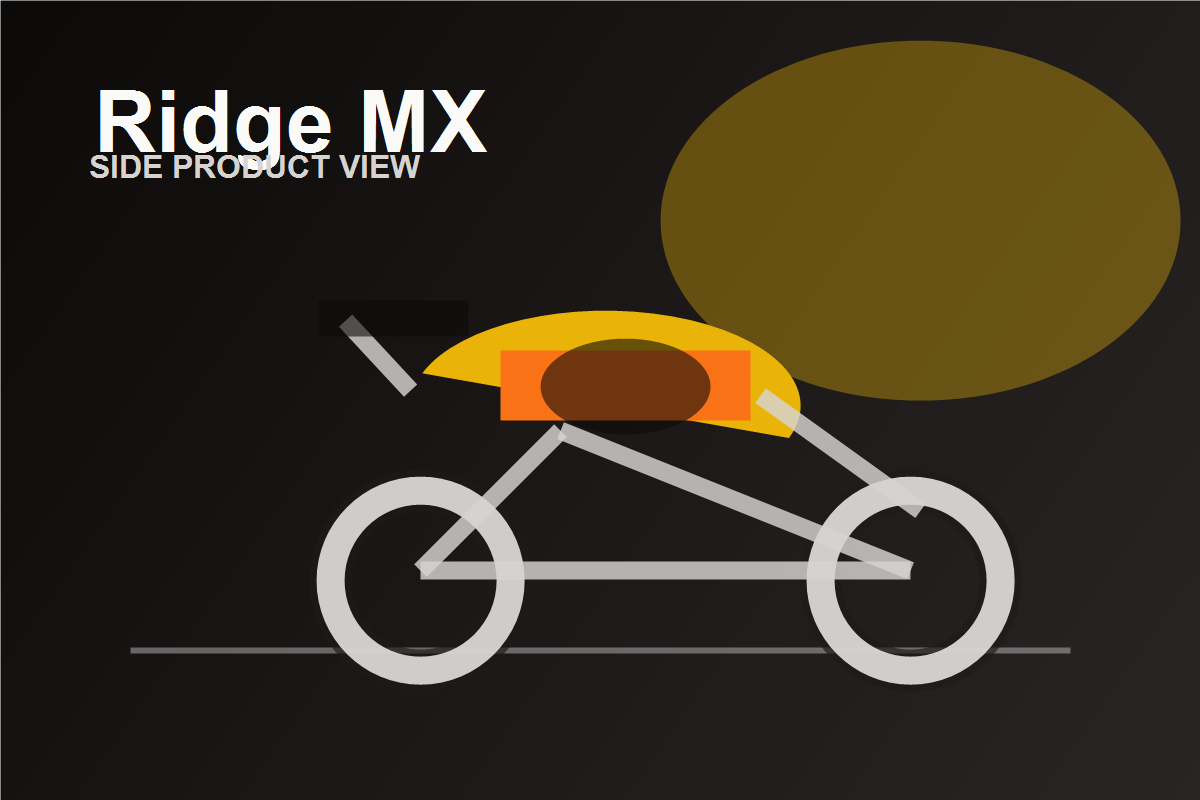
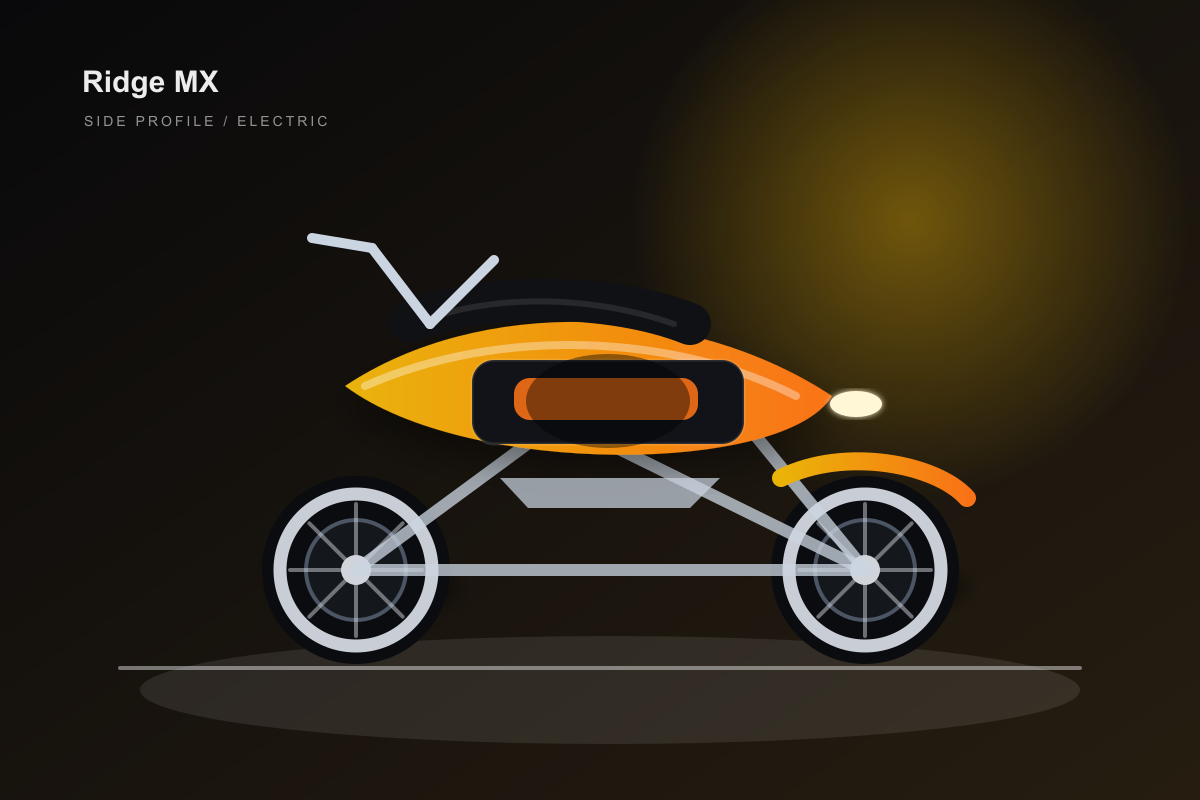
Upgrade catalog copy and bike imagery

diff --git a/lib/bikes.ts b/lib/bikes.ts
@@ -10,7 +10,7 @@ export const bikes: Bike[] = [
     chargeTime: "28 min",
     price: "$18,900",
     description:
-      "A sharp, city-to-canyon machine with instant torque, adaptive ride modes, and a compact fast-charge battery pack.",
+      "A compact streetfighter tuned for quick launches, canyon exits, and weekday commutes. Volt RS pairs a low-mounted battery pack with sharp steering geometry and configurable ride modes.",
     accent: "from-orange-500 via-amber-500 to-stone-800",
     media: {
       images: [
@@ -28,7 +28,7 @@ export const bikes: Bike[] = [
     chargeTime: "34 min",
     price: "$21,400",
     description:
-      "Long-travel suspension, upright ergonomics, and rugged utility for riders who split time between pavement and dirt roads.",
+      "A long-range dual-sport built for riders who split their week between pavement, gravel, and fire-road miles. Terra X adds upright ergonomics, protected bodywork, and utility mounting points.",
     accent: "from-emerald-500 via-lime-500 to-stone-800",
     media: {
       images: [
@@ -46,7 +46,7 @@ export const bikes: Bike[] = [
     chargeTime: "24 min",
     price: "$14,800",
     description:
-      "Lightweight, quiet, and nimble with integrated storage options and confidence-focused power delivery for daily rides.",
+      "A lightweight commuter with quiet acceleration, simple charging, and city-friendly proportions. Pulse C is built for daily riders who want predictable range without giving up weekend fun.",
     accent: "from-sky-500 via-cyan-400 to-stone-800",
     media: {
       images: [
@@ -64,7 +64,7 @@ export const bikes: Bike[] = [
     chargeTime: "38 min",
     price: "$24,600",
     description:
-      "A composed long-range tourer with wind protection, passenger-ready geometry, and effortless highway passing power.",
+      "A composed electric tourer for longer rides, passenger comfort, and fast highway passing. Vector GT brings wind protection, stable geometry, and the largest estimated pack in the lineup.",
     accent: "from-violet-500 via-fuchsia-500 to-stone-800",
     media: {
       images: [
@@ -82,7 +82,7 @@ export const bikes: Bike[] = [
     chargeTime: "22 min",
     price: "$13,900",
     description:
-      "A lightweight off-road platform tuned for quick line changes, steep climbs, and quiet access to technical terrain.",
+      "A quiet trail platform for technical terrain, steep climbs, and quick line changes. Ridge MX keeps weight low and response immediate for riders who care about control more than noise.",
     accent: "from-yellow-500 via-orange-500 to-stone-800",
     media: {
       images: [
@@ -100,7 +100,7 @@ export const bikes: Bike[] = [
     chargeTime: "26 min",
     price: "$15,700",
     description:
-      "Compact proportions, lively acceleration, and smart daily features for riders who want a fast way through dense city miles.",
+      "A compact city sport bike with lively acceleration, confident brakes, and daily-friendly ergonomics. Metro S is aimed at dense streets, short hops, and riders who want an easy electric step-up.",
     accent: "from-rose-500 via-red-500 to-stone-800",
     media: {
       images: [

diff --git a/components/hero-section.tsx b/components/hero-section.tsx
@@ -1,10 +1,11 @@
+import Image from "next/image";
 import Link from "next/link";
 import { TrackedLink } from "@/components/tracked-link";
 
 const stats = [
-  { label: "Electric range", value: "180 mi" },
-  { label: "Charge to 80%", value: "28 min" },
-  { label: "Demo fleet", value: "12 bikes" },
+  { label: "Range up to", value: "240 mi" },
+  { label: "Fast charge", value: "22-38 min" },
+  { label: "Launch models", value: "6" },
 ];
 
 export function HeroSection() {
@@ -40,23 +41,20 @@ export function HeroSection() {
           </dl>
         </div>
 
-        <div className="relative mx-auto w-full max-w-xl" aria-label="Concept image placeholder for the Kinetic Moto Volt RS electric motorcycle" role="img">
+        <div className="relative mx-auto w-full max-w-xl">
           <div className="absolute -inset-8 rounded-full bg-orange-500/20 blur-3xl" />
-          <div className="relative overflow-hidden rounded-[2rem] border border-white/10 bg-gradient-to-br from-stone-800 to-stone-950 p-6 shadow-2xl">
-            <div className="rounded-[1.5rem] bg-stone-900 p-6">
-              <div className="mb-8 flex items-center justify-between text-sm text-stone-400">
-                <span>Volt RS / prototype visual</span>
-                <span aria-hidden="true">● ● ●</span>
-              </div>
-              <div className="relative h-64 sm:h-80">
-                <div className="absolute bottom-8 left-4 h-24 w-24 rounded-full border-[14px] border-stone-600 bg-stone-950 shadow-inner" />
-                <div className="absolute bottom-8 right-4 h-24 w-24 rounded-full border-[14px] border-stone-600 bg-stone-950 shadow-inner" />
-                <div className="absolute bottom-24 left-20 right-20 h-12 -skew-x-12 rounded-full bg-orange-500 shadow-lg shadow-orange-500/40" />
-                <div className="absolute bottom-36 left-28 h-20 w-56 -skew-x-12 rounded-[2rem] bg-stone-200" />
-                <div className="absolute bottom-44 right-24 h-4 w-28 -rotate-12 rounded-full bg-stone-500" />
-                <div className="absolute bottom-48 left-24 h-3 w-28 rotate-12 rounded-full bg-stone-500" />
-                <div className="absolute bottom-32 left-40 h-24 w-24 rounded-full border border-orange-300/40" />
-              </div>
+          <div className="relative aspect-[3/2] overflow-hidden rounded-[2rem] border border-white/10 bg-stone-900 shadow-2xl shadow-black/40">
+            <Image
+              src="/bikes/volt-rs-side.png"
+              alt="Volt RS electric motorcycle studio render"
+              fill
+              priority
+              sizes="(min-width: 1024px) 45vw, 100vw"
+              className="object-cover"
+            />
+            <div className="absolute inset-x-0 bottom-0 bg-gradient-to-t from-stone-950/85 to-transparent p-5">
+              <p className="text-sm font-bold uppercase tracking-[0.22em] text-orange-200">Volt RS launch model</p>
+              <p className="mt-1 text-sm text-stone-300">Street performance / 180 mi estimated range</p>
             </div>
           </div>
         </div>

diff --git a/components/bike-card.tsx b/components/bike-card.tsx
@@ -1,3 +1,4 @@
+import Image from "next/image";
 import { TrackedLink } from "@/components/tracked-link";
 
 export type BikeMediaImage = {
@@ -37,25 +38,30 @@ type BikeCardProps = {
 };
 
 export function BikeCard({ bike, ctaLabel = `View ${bike.name}` }: BikeCardProps) {
+  const primaryImage = bike.media?.images?.[0];
+
   return (
     <article id={bike.slug} className="group flex h-full scroll-mt-24 flex-col overflow-hidden rounded-[2rem] border border-stone-800 bg-stone-900/70 shadow-xl shadow-black/20 transition hover:-translate-y-1 hover:border-orange-400/50">
-      <div className={`relative min-h-56 bg-gradient-to-br ${bike.accent} p-6`}>
-        <div className="absolute inset-0 bg-[radial-gradient(circle_at_70%_15%,_rgba(255,255,255,0.22),_transparent_28%)]" />
-        <div className="relative flex items-start justify-between gap-4">
+      <div className={`relative aspect-[3/2] overflow-hidden bg-gradient-to-br ${bike.accent}`}>
+        {primaryImage ? (
+          <Image
+            src={primaryImage.src}
+            alt={primaryImage.alt}
+            fill
+            sizes="(min-width: 768px) 33vw, 100vw"
+            className="object-cover transition duration-500 group-hover:scale-105"
+          />
+        ) : (
+          <div className="absolute inset-0 bg-[radial-gradient(circle_at_70%_15%,_rgba(255,255,255,0.22),_transparent_28%)]" />
+        )}
+        <div className="absolute inset-0 bg-gradient-to-t from-stone-950/50 via-transparent to-stone-950/20" />
+        <div className="relative flex items-start justify-between gap-4 p-5">
           <span className="rounded-full bg-black/30 px-3 py-1 text-xs font-bold uppercase tracking-[0.22em] text-white backdrop-blur">
             {bike.category}
           </span>
           <span className="rounded-full bg-white/15 px-3 py-1 text-xs font-semibold text-white backdrop-blur">
             /{bike.slug}
           </span>
-        </div>
-        <div className="absolute bottom-8 left-6 right-6" aria-label={`${bike.name} image placeholder`} role="img">
-          <div className="relative h-28">
-            <div className="absolute bottom-0 left-2 h-16 w-16 rounded-full border-[10px] border-white/75 bg-black/35" />
-            <div className="absolute bottom-0 right-2 h-16 w-16 rounded-full border-[10px] border-white/75 bg-black/35" />
-            <div className="absolute bottom-12 left-16 right-16 h-8 -skew-x-12 rounded-full bg-white/90" />
-            <div className="absolute bottom-17 left-24 h-12 w-28 -skew-x-12 rounded-3xl bg-black/35" />
-          </div>
         </div>
       </div>
 

diff --git a/components/bike-detail-layout.tsx b/components/bike-detail-layout.tsx
@@ -62,7 +62,7 @@ export function BikeDetailLayout({ bike }: BikeDetailLayoutProps) {
             <p className="text-sm font-bold uppercase tracking-[0.28em] text-orange-300">Starting price</p>
             <p className="mt-3 text-5xl font-black tracking-tight text-white">{bike.price}</p>
             <p className="mt-4 leading-7 text-orange-100">
-              Estimated launch pricing for the {bike.name}. Final availability, trim packages, and delivery options can be confirmed with Kinetic Moto.
+              Estimated launch pricing for the {bike.name}. Ask Kinetic Moto about trim options, delivery timing, and financing fit.
             </p>
             <TrackedLink href={bookRideHref} eventName="bike_detail_cta_click" eventProperties={{ bike: bike.slug, intent: "contact_sales" }} className="mt-6 inline-flex rounded-full bg-orange-500 px-5 py-3 font-bold text-stone-950 transition hover:bg-orange-400 focus:outline-none focus:ring-2 focus:ring-orange-200 focus:ring-offset-2 focus:ring-offset-stone-950">
               Contact Sales
@@ -88,7 +88,7 @@ export function BikeDetailLayout({ bike }: BikeDetailLayoutProps) {
               Plan the ride before the reservation.
             </h2>
             <p className="mt-5 text-lg leading-8 text-stone-600">
-              Talk through estimated payments, delivery timing, and fleet needs before making a commitment. No checkout or cart flow has been added.
+              Talk through estimated payments, trade-in fit, delivery timing, and fleet needs before making a commitment.
             </p>
           </div>
 

diff --git a/components/cta-section.tsx b/components/cta-section.tsx
@@ -26,7 +26,7 @@ export function CtaSection() {
               Feel the pull before you commit.
             </h2>
             <p className="mt-5 text-lg leading-8 text-stone-600">
-              Kinetic Moto is currently using placeholder content for launch planning. These CTAs are wired as accessible links and can be swapped for booking flows later.
+              Start with a model, a route, or a fleet use case. The team can confirm availability, financing fit, and delivery timing before you commit.
             </p>
           </div>
 

diff --git a/components/featured-bikes.tsx b/components/featured-bikes.tsx
@@ -16,7 +16,7 @@ export async function FeaturedBikes() {
             </h2>
           </div>
           <p className="max-w-xl text-lg leading-8 text-stone-300">
-            Placeholder specs and slugs are ready for routing, inventory, and production imagery when the catalog is finalized.
+            Compare launch-ready electric concepts across street, adventure, commuter, touring, trail, and city sport use cases.
           </p>
         </div>
 

diff --git a/docs/setup-inventory.md b/docs/setup-inventory.md
@@ -166,3 +166,10 @@ The service should sell outcomes, not AI hype: "we make your half-built automati
 - CTA and contact-form conversion events are tracked with Vercel Analytics.
 - `robots.ts` excludes `/admin/`, and `sitemap.ts` publishes the storefront, catalog, bike details, and contact page.
 - `docs/launch-checklist.md` is the current go-live verification checklist.
+
+## Phase 6 Catalog Notes
+
+- The six-bike catalog now has stronger sellable descriptions in `lib/bikes.ts`.
+- The generated raster bike renders in `public/bikes/` replaced the earlier placeholder-style artwork.
+- Bike cards and the homepage hero now render catalog imagery directly.
+- Supabase `bikes.description` rows were updated through the REST API so production content matches local fallback content.

diff --git a/docs/launch-checklist.md b/docs/launch-checklist.md
@@ -72,6 +72,13 @@ Use this before any production launch or major go-live change.
 - Conversion events are tracked for catalog clicks, detail-page CTAs, and contact submission outcomes.
 - Page metadata has canonical and OpenGraph basics.
 
+## Catalog
+
+- Homepage hero shows real catalog imagery rather than a placeholder drawing.
+- `/bikes` cards show the primary image for each model.
+- `/bikes/[slug]` gallery renders side and front images for each model.
+- Supabase bike rows match the descriptions in `lib/bikes.ts`.
+
 ## Verification Commands
 
 ```bash
